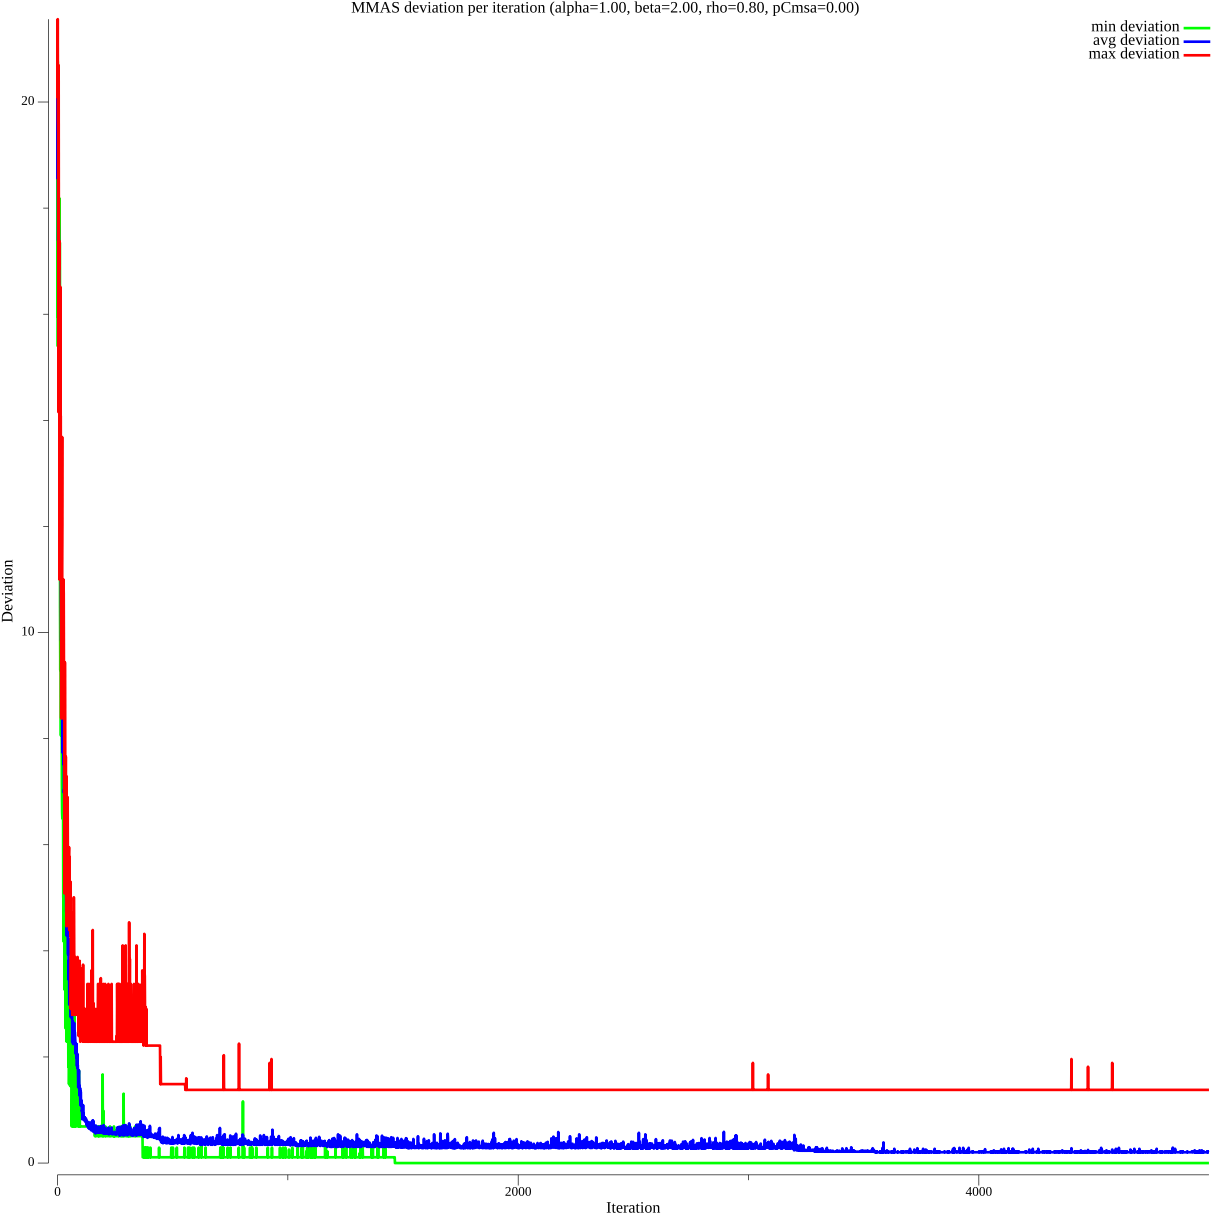
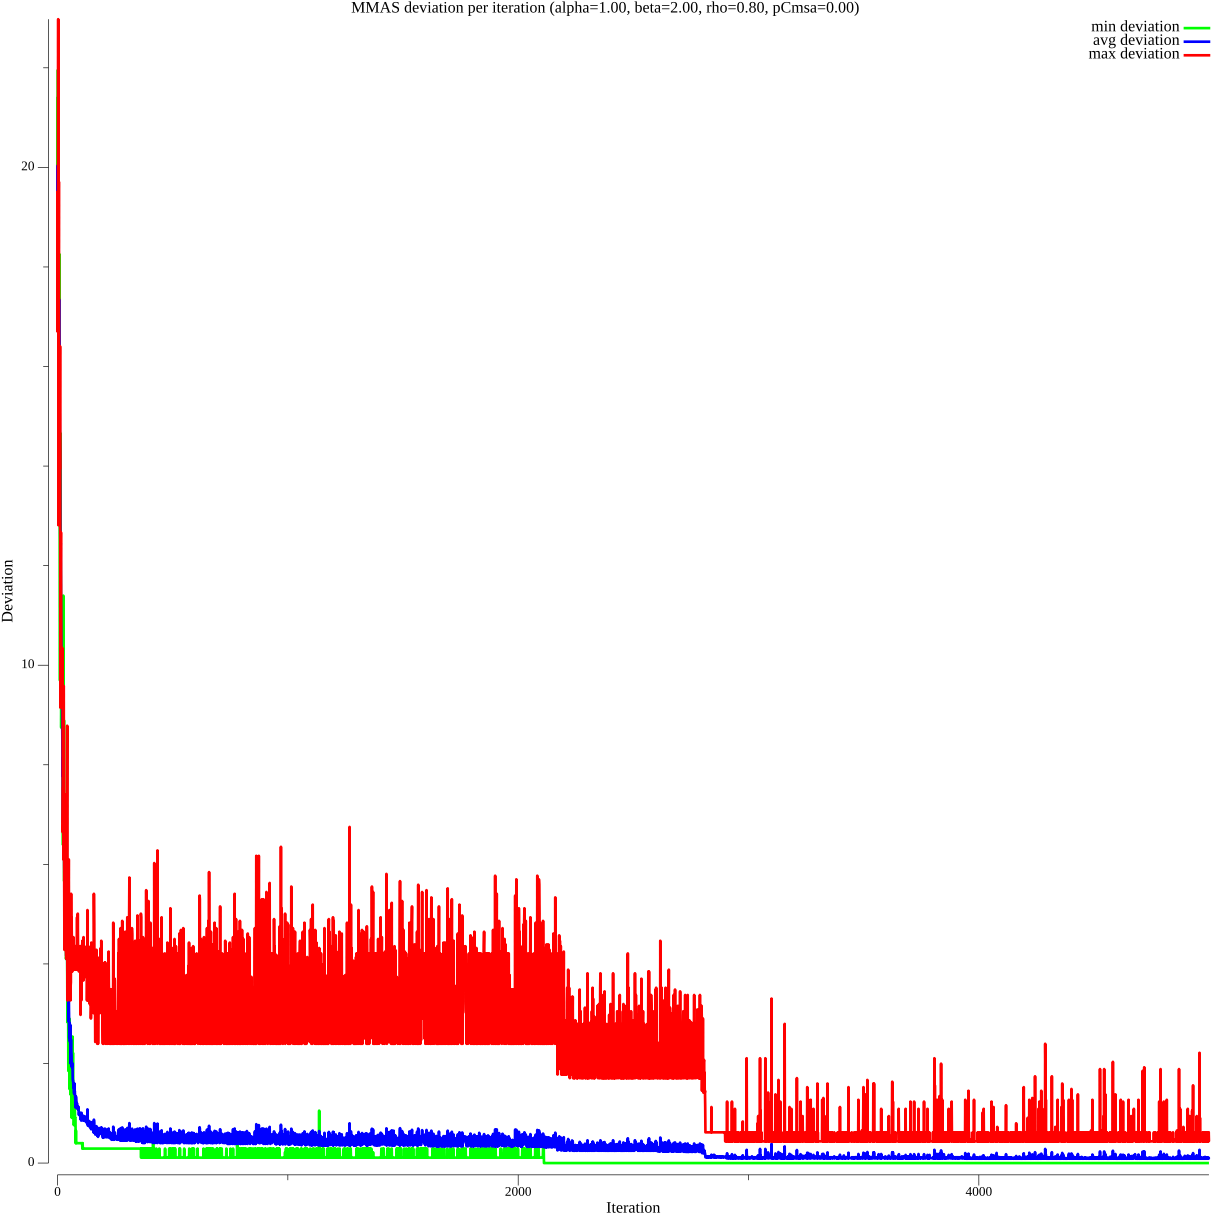
some refactoring and different rng

diff --git a/modules/algorithms/aco/aco.go b/modules/algorithms/aco/aco.go
@@ -6,18 +6,19 @@ import (
 	"atsp_aco_msa/modules/utilities"
 	"math"
 
-	"pgregory.net/rand"
+	"math/rand/v2"
 )
 
 type ACO struct {
 	alpha, beta, rho, pCmsa                 float64
 	iterations, currentIteration, dimension int
 	distances                               [][]float64
-	cmsa                                    [][]float64
+	hints                                   [][]float64
 	tauMin, tauMax, BestLength              float64
 	reducedThreeOpt                         *threeOpt.ReducedThreeOpt
 	targetTourLength                        float64
 	neighborsLists                          [][]int
+	rng                                     *rand.Rand
 
 	pheromones, heuristics, desirabilities [][]float64
 
@@ -27,7 +28,7 @@ type ACO struct {
 	ThreeOptImprovementsCount int
 }
 
-func NewACO(alpha, beta, rho, pCmsa float64, iterations int, targetTourLength float64, distances, cmsa [][]float64) *ACO {
+func NewACO(alpha, beta, rho, pCmsa float64, iterations int, targetTourLength float64, distances, hints [][]float64) *ACO {
 	dimension := len(distances)
 	pheromones := make([][]float64, dimension)
 	heuristics := make([][]float64, dimension)
@@ -56,6 +57,9 @@ func NewACO(alpha, beta, rho, pCmsa float64, iterations int, targetTourLength fl
 
 	reducedThreeOpt := threeOpt.NewReducedThreeOpt(distances, localSearchNeighborsLists)
 
+	src := rand.NewPCG(4, 2)
+	rng := rand.New(src)
+
 	return &ACO{
 		alpha:            alpha,
 		beta:             beta,
@@ -64,12 +68,13 @@ func NewACO(alpha, beta, rho, pCmsa float64, iterations int, targetTourLength fl
 		iterations:       iterations,
 		dimension:        dimension,
 		distances:        distances,
-		cmsa:             cmsa,
+		hints:            hints,
+		tauMin:           -math.MaxInt,
+		tauMax:           math.MaxInt,
 		reducedThreeOpt:  reducedThreeOpt,
 		targetTourLength: targetTourLength,
 		neighborsLists:   tourConstructionNeighborsLists,
-		tauMin:           -math.MaxInt,
-		tauMax:           math.MaxInt,
+		rng:              rng,
 
 		pheromones:     pheromones,
 		heuristics:     heuristics,
@@ -85,6 +90,16 @@ func NewACO(alpha, beta, rho, pCmsa float64, iterations int, targetTourLength fl
 
 func (aco *ACO) Run() {
 
+	hintsSums := make([]float64, aco.dimension)
+
+	for i := 0; i < aco.dimension; i++ {
+		hintsSums[i] = 0
+
+		for j := 0; j < aco.dimension; j++ {
+			hintsSums[i] += aco.hints[i][j]
+		}
+	}
+
 	ants := min(25, aco.dimension)
 	initialPheromoneValue := 100000.0 // Arbitrary large value
 	for i := 0; i < aco.dimension; i++ {
@@ -93,8 +108,8 @@ func (aco *ACO) Run() {
 			// Adding 1 to each distance in calculation to avoid division by 0.
 			heuristicBase := 1.0 / (aco.distances[i][j] + 1.0)
 
-			if aco.cmsa[i][j] != 0 {
-				heuristicBase *= 1 + ((aco.cmsa[i][j] / float64(aco.dimension)) * aco.pCmsa)
+			if aco.hints[i][j] != 0 {
+				heuristicBase *= 1 + ((aco.hints[i][j] / hintsSums[i]) * aco.pCmsa)
 			}
 
 			heuristic := math.Pow(heuristicBase, aco.beta)
@@ -188,7 +203,7 @@ func (aco *ACO) Run() {
 
 // Function to construct tour for each ant
 func (aco *ACO) constructTour(tour []int, canVisitBits []float64, desirabilities []float64) {
-	current := rand.Intn(aco.dimension)
+	current := aco.rng.IntN(aco.dimension)
 	tour[0] = current
 
 	for i := 0; i < aco.dimension; i++ {
@@ -208,14 +223,7 @@ func (aco *ACO) constructTour(tour []int, canVisitBits []float64, desirabilities
 
 // Function to select the next city for an ant
 func (aco *ACO) selectNextCity(current int, canVisitBits []float64, desirabilities []float64) int {
-
-	q := rand.Float64()
 	desirabilitiesToUse := aco.desirabilities[current]
-	// Use CMSA logic to bias towards hopefully better tours. Other tours will also take part in roulette-wheel selection.
-	// adaptiveCmsaProbability := aco.pCmsa * (1.0 - float64(aco.currentIteration)/float64(aco.iterations))
-	// if q < adaptiveCmsaProbability {
-	// 	desirabilitiesToUse = aco.cmsaDesirabilities[current]
-	// }
 
 	total := 0.0
 	neighbors := aco.neighborsLists[current]
@@ -226,6 +234,7 @@ func (aco *ACO) selectNextCity(current int, canVisitBits []float64, desirabiliti
 		total += prob
 	}
 
+	q := aco.rng.Float64()
 	threshold := q * total
 	cumulativeProbability := 0.0
 	nextCity := -1

diff --git a/main.go b/main.go
@@ -80,16 +80,24 @@ func generateMarkdownCounts(paramName string, counts map[float64]int) string {
 }
 
 func saveBestParametersInfo(fileName string, bestStatistics []ExperimentsDataStatistics) {
-	sort.Slice(bestStatistics, func(i, j int) bool {
-		return bestStatistics[i].averageBestDeviation < bestStatistics[j].averageBestDeviation
+	sort.SliceStable(bestStatistics, func(i, j int) bool {
+		if bestStatistics[i].averageBestDeviation != bestStatistics[j].averageBestDeviation {
+			return bestStatistics[i].averageBestDeviation < bestStatistics[j].averageBestDeviation
+		}
+
+		if bestStatistics[i].successRate != bestStatistics[j].successRate {
+			return bestStatistics[i].successRate > bestStatistics[j].successRate
+		}
+
+		return bestStatistics[i].averageBestAtIteration < bestStatistics[j].averageBestAtIteration
 	})
 
-	uniqueParameters := map[ExperimentParameters]bool{}
+	uniqueParameters := map[ExperimentParameters]int{}
 
 	for _, statistic := range bestStatistics {
 		parameters := statistic.ExperimentParameters
 		parameters.iterations = 0
-		uniqueParameters[parameters] = true
+		uniqueParameters[parameters]++
 	}
 
 	alphaCounts := make(map[float64]int)
@@ -113,11 +121,11 @@ func saveBestParametersInfo(fileName string, bestStatistics []ExperimentsDataSta
 
 	// Best parameters
 	markdown += "## Best Parameters\n\n"
-	markdown += "| Alpha | Beta | Rho | pCmsa |\n"
-	markdown += "|-------|------|-----|-------|\n"
-	for parameters := range uniqueParameters {
-		markdown += fmt.Sprintf("| %.2f | %.2f | %.2f | %.2f |\n",
-			parameters.alpha, parameters.beta, parameters.rho, parameters.pCmsa)
+	markdown += "| Alpha | Beta | Rho | pCmsa | Times used |\n"
+	markdown += "|-------|------|-----|-------|------------|\n"
+	for parameters, timesUsed := range uniqueParameters {
+		markdown += fmt.Sprintf("| %.2f | %.2f | %.2f | %.2f | %d |\n",
+			parameters.alpha, parameters.beta, parameters.rho, parameters.pCmsa, timesUsed)
 	}
 	markdown += "\n"
 
@@ -624,7 +632,7 @@ func generateParameters() []ExperimentParameters {
 	for _, alpha := range utilities.GenerateRange(1.0, 1.0, 0.25) {
 		for _, beta := range utilities.GenerateRange(2.0, 2.0, 1.0) {
 			for _, rho := range utilities.GenerateRange(0.8, 0.8, 0.1) {
-				for _, pCmsa := range utilities.GenerateRange(0.0, 1.0, 0.25) {
+				for _, pCmsa := range []float64{0.0, 0.1, 0.2, 0.3, 0.4, 0.5, 0.6, 0.7, 0.8, 0.9, 1.0} {
 
 					parameters = append(parameters,
 						ExperimentParameters{
@@ -934,7 +942,7 @@ func saveExperimentPlots(statistics []ExperimentsDataStatistics, plotTitle, plot
 }
 
 func getBestStatisticsFromFiles(resultsFilePaths []string) []ExperimentsDataStatistics {
-	topNumber := 1
+	topNumber := 3
 	bestStatistics := make([]ExperimentsDataStatistics, 0)
 
 	for _, path := range resultsFilePaths {

diff --git a/results/best_parameters_report.md b/results/best_parameters_report.md
@@ -1,16 +1,18 @@
 # Best Parameters Report
 
-Found **5** best unique parameter combinations.
+Found **7** best unique parameter combinations.
 
 ## Best Parameters
 
-| Alpha | Beta | Rho | pCmsa |
-|-------|------|-----|-------|
-| 1.00 | 2.00 | 0.80 | 0.00 |
-| 1.00 | 2.00 | 0.80 | 0.75 |
-| 1.00 | 2.00 | 0.80 | 0.25 |
-| 1.00 | 2.00 | 0.80 | 1.00 |
-| 1.00 | 2.00 | 0.80 | 0.50 |
+| Alpha | Beta | Rho | pCmsa | Times used |
+|-------|------|-----|-------|------------|
+| 1.00 | 2.00 | 0.80 | 0.50 | 29 |
+| 1.00 | 2.00 | 0.80 | 1.00 | 12 |
+| 1.00 | 2.00 | 0.80 | 0.75 | 19 |
+| 1.00 | 2.00 | 0.80 | 0.40 | 1 |
+| 1.00 | 2.00 | 0.80 | 0.90 | 1 |
+| 1.00 | 2.00 | 0.80 | 0.00 | 32 |
+| 1.00 | 2.00 | 0.80 | 0.25 | 35 |
 
 ## Parameter Values Occurrences
 
@@ -18,19 +20,19 @@ Found **5** best unique parameter combinations.
 
 | Value | Count |
 |-------|-------|
-| 1.00 | 5 |
+| 1.00 | 7 |
 
 ### Beta
 
 | Value | Count |
 |-------|-------|
-| 2.00 | 5 |
+| 2.00 | 7 |
 
 ### Rho
 
 | Value | Count |
 |-------|-------|
-| 0.80 | 5 |
+| 0.80 | 7 |
 
 ### pCmsa
 
@@ -38,8 +40,10 @@ Found **5** best unique parameter combinations.
 |-------|-------|
 | 0.00 | 1 |
 | 0.25 | 1 |
+| 0.40 | 1 |
 | 0.50 | 1 |
 | 0.75 | 1 |
+| 0.90 | 1 |
 | 1.00 | 1 |
 
 ## Parameter Ranges
